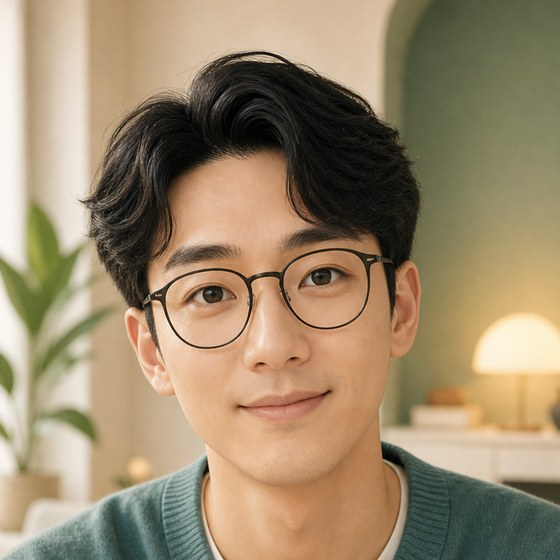
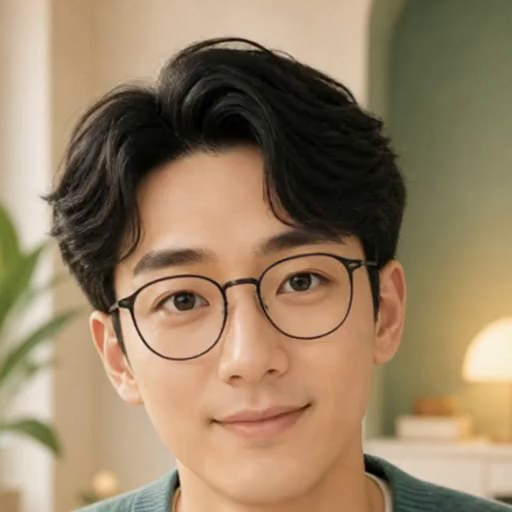
polish(app-site): demo擬真男會講話影片(對齊眼線)+封面；首頁大圖暫改擬真女靜圖(待打招呼待機動態)

diff --git a/app-site/index.html b/app-site/index.html
@@ -237,9 +237,7 @@
     <div class="hero-media">
       <div class="glow"></div>
       <div class="frame">
-        <video class="hero-face" poster="assets/real-female-poster.jpg" muted playsinline autoplay loop preload="auto" aria-label="沐寧的 AI 夥伴——會動、正在陪你">
-          <source src="assets/realfemale-talk-demo.mp4" type="video/mp4">
-        </video>
+        <img class="hero-face" src="assets/real-female-full.jpg" alt="沐寧的 AI 夥伴" style="width:100%;height:100%;object-fit:cover;object-position:center 18%;display:block">
       </div>
       <div class="float-chip fc-1"><span class="ic" style="background:var(--mint);color:var(--teal-d)"><svg viewBox="0 0 24 24" fill="none" stroke="currentColor" stroke-width="2"><path d="M22 11.08V12a10 10 0 11-5.93-9.14"/><path d="M22 4L12 14.01l-3-3"/></svg></span><span data-en="Reminded Mom to take her meds">已提醒媽媽吃藥</span></div>
       <div class="float-chip fc-2"><span class="ic" style="background:var(--coral-soft);color:var(--coral-d)"><svg viewBox="0 0 24 24" fill="none" stroke="currentColor" stroke-width="2"><path d="M21 11.5a8.4 8.4 0 01-9 8.4 8.4 8.4 0 01-3.8-.9L3 21l1.9-5.7A8.4 8.4 0 0112 3a8.4 8.4 0 019 8.5z"/></svg></span><span data-en="She remembers what you said">她記得你說的事</span></div>